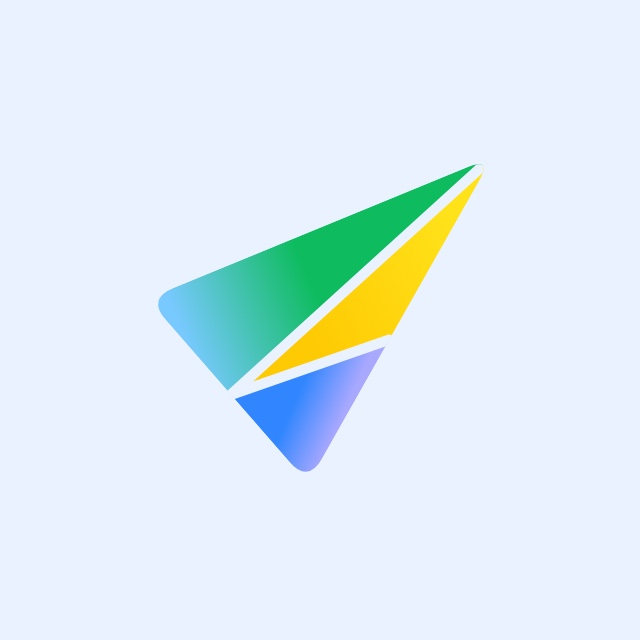
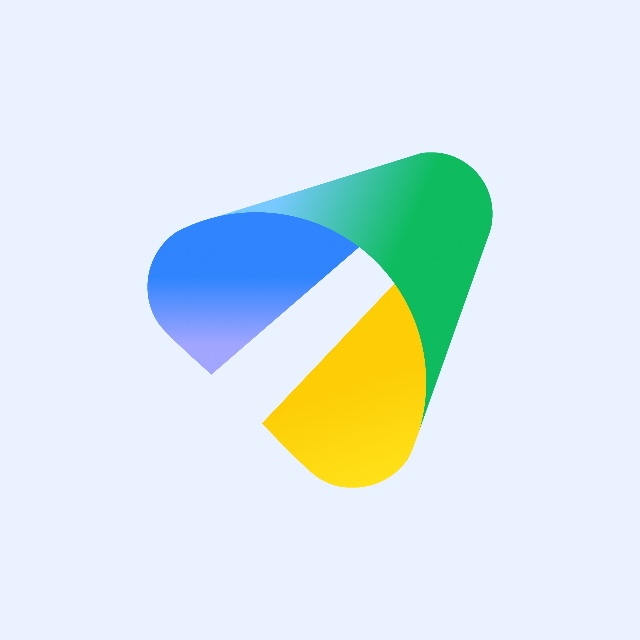
feat(brand): the app shows the new mark too
The mark in the app, on Home, the welcome and lock screens and while it
starts, is now the new artwork, as the launcher icon already was, and
so are the notification icon and the photo a new drive channel gets.
Every picture of the mark is rendered from tool/icon/source/telegrive.png,
so the hand-drawn plane and its painter are gone.

- BrandMark shows assets/brand/mark.png, the mark filling its square
- tool/icon renders mark.png, the white notification silhouette and
  the channel photo from the source image; install.sh puts them in place
- DESIGN.md describes the new mark and where its pictures come from

Changed region(s): [[0.2188, 0.2188, 0.7812, 0.7812]]

diff --git a/tool/icon/icon_test.dart b/tool/icon/icon_test.dart
@@ -1,11 +1,12 @@
-// Renders the launcher icons from the mark in source/telegrive.png, and the
-// notification icon and the channel photo from the same drawing as
-// BrandMark:
+// Renders every picture of the mark from source/telegrive.png: the app's
+// own copy of it, the launcher icons, the notification icon and the channel
+// photo:
 //
 //   flutter test tool/icon/icon_test.dart --update-goldens
 //   dart run flutter_launcher_icons
 //   tool/icon/install.sh
 //
+// mark.png is the mark alone, filling its square, for BrandMark in the app.
 // icon.png is the full-bleed square (iOS, legacy Android); foreground.png is
 // the plane alone for Android's adaptive icon, and doubles as the themed
 // (monochrome) icon.
@@ -15,15 +16,14 @@ import 'dart:ui' as ui;
 
 import 'package:flutter/material.dart';
 import 'package:flutter_test/flutter_test.dart';
-import 'package:telegrive/core/widgets/brand_mark.dart';
 
 const _size = 1024.0;
 
 /// White, so the blue of the plane reads as Telegram's.
 const _tile = Colors.white;
 
-/// The share of the icon the mark spans, across its longer side.
-const _markScale = 0.64;
+/// The share of a launcher icon the mark spans, across its longer side.
+const _iconScale = 0.64;
 
 void main() {
   Future<void> render(
@@ -74,68 +74,95 @@ void main() {
     );
   }
 
-  Future<void> renderMark(WidgetTester tester, String name, {Color? tile}) async {
+  Future<void> renderMark(
+    WidgetTester tester,
+    String name, {
+    required double scale,
+    Color? tile,
+    Color? silhouette,
+    double size = _size,
+  }) async {
     final (image, box) = await loadMark(tester);
-    await render(tester, _MarkPainter(image, box, tile: tile), name);
+    await render(
+      tester,
+      _MarkPainter(image, box, scale: scale, tile: tile, silhouette: silhouette),
+      name,
+      size: size,
+    );
   }
 
+  testWidgets('mark', (tester) async {
+    await renderMark(tester, 'mark', scale: 1, size: 512);
+  });
+
   testWidgets('full icon', (tester) async {
-    await renderMark(tester, 'icon', tile: _tile);
+    await renderMark(tester, 'icon', scale: _iconScale, tile: _tile);
   });
 
   testWidgets('adaptive foreground', (tester) async {
     // flutter_launcher_icons insets the foreground by 16% on each side,
     // which is already Android's visible area, so the mark is drawn at the
     // same size as on the full icon, inside the 66 dp safe circle.
-    await renderMark(tester, 'foreground');
+    await renderMark(tester, 'foreground', scale: _iconScale);
   });
 
   testWidgets('adaptive background', (tester) async {
-    await render(
-      tester,
-      const BrandPainter(scale: 0, tile: _tile),
-      'background',
-    );
+    await render(tester, const _Tile(_tile), 'background');
   });
 
   testWidgets('notification icon', (tester) async {
-    // Status-bar icons are white silhouettes; the creases stay open.
-    await render(
-      tester,
-      const BrandPainter(scale: 0.86, silhouette: Colors.white),
-      'notification',
-    );
+    // Status-bar icons are white silhouettes; the gaps between the facets
+    // stay open.
+    await renderMark(tester, 'notification', scale: 0.86, silhouette: Colors.white);
   });
 
   testWidgets('channel photo', (tester) async {
     // Telegram crops chat photos to a circle and shows them on white, so
-    // the plane sits well inside it on a faint blue.
-    await render(
+    // the mark sits well inside it on a faint blue.
+    await renderMark(
       tester,
-      const BrandPainter(scale: 0.54, tile: Color(0xFFEAF1FF)),
       'channel_photo',
+      scale: 0.54,
+      tile: const Color(0xFFEAF1FF),
       size: 640,
     );
   });
 }
 
+/// A square of one colour.
+class _Tile extends CustomPainter {
+  const _Tile(this.color);
+
+  final Color color;
+
+  @override
+  void paint(Canvas canvas, Size size) =>
+      canvas.drawRect(Offset.zero & size, Paint()..color = color);
+
+  @override
+  bool shouldRepaint(_Tile old) => old.color != color;
+}
+
 /// [image]'s mark, the part of it inside [box], centred on a square and
-/// scaled so its longer side spans [_markScale] of it, on [tile] when given.
+/// scaled so its longer side spans [scale] of it, on [tile] when given, and
+/// in one colour when [silhouette] is.
 class _MarkPainter extends CustomPainter {
-  const _MarkPainter(this.image, this.box, {this.tile});
+  const _MarkPainter(this.image, this.box, {required this.scale, this.tile, this.silhouette});
 
   final ui.Image image;
   final Rect box;
+  final double scale;
   final Color? tile;
+  final Color? silhouette;
 
   @override
   void paint(Canvas canvas, Size size) {
     if (tile != null) canvas.drawRect(Offset.zero & size, Paint()..color = tile!);
-    final scale = size.shortestSide * _markScale / box.longestSide;
+    final factor = size.shortestSide * scale / box.longestSide;
     final drawn = Rect.fromCenter(
       center: size.center(Offset.zero),
-      width: box.width * scale,
-      height: box.height * scale,
+      width: box.width * factor,
+      height: box.height * factor,
     );
     canvas.drawImageRect(
       image,
@@ -143,11 +170,18 @@ class _MarkPainter extends CustomPainter {
       drawn,
       Paint()
         ..filterQuality = FilterQuality.high
-        ..isAntiAlias = true,
+        ..isAntiAlias = true
+        ..colorFilter = silhouette == null
+            ? null
+            : ColorFilter.mode(silhouette!, BlendMode.srcIn),
     );
   }
 
   @override
   bool shouldRepaint(_MarkPainter old) =>
-      old.image != image || old.box != box || old.tile != tile;
+      old.image != image ||
+      old.box != box ||
+      old.scale != scale ||
+      old.tile != tile ||
+      old.silhouette != silhouette;
 }

diff --git a/lib/core/widgets/brand_mark.dart b/lib/core/widgets/brand_mark.dart
@@ -1,13 +1,10 @@
-import 'dart:math' as math;
-import 'dart:ui' as ui;
-
 import 'package:flutter/material.dart';
 
 import '../../app/theme/tokens.dart';
 
-/// The Telegrive mark: a paper plane, the way Telegram sends, folded from
-/// three facets into one rounded triangle. A green
-/// wing, a yellow body and a blue keel, with thin creases between them.
+/// The Telegrive mark: a paper plane folded into a drive, its facets in the
+/// app's blue and green and a yellow. The picture is rendered from
+/// tool/icon/source/telegrive.png, as every icon is.
 class BrandMark extends StatelessWidget {
   const BrandMark({super.key, this.size = 56});
 
@@ -15,130 +12,14 @@ class BrandMark extends StatelessWidget {
 
   @override
   Widget build(BuildContext context) {
-    return SizedBox.square(
-      dimension: size,
-      child: const CustomPaint(painter: BrandPainter()),
+    return Image.asset(
+      'assets/brand/mark.png',
+      width: size,
+      height: size,
+      filterQuality: FilterQuality.medium,
+      excludeFromSemantics: true,
     );
   }
-}
-
-/// Draws the mark into a square. The app draws it bare; tool/icon renders
-/// the launcher icons, the notification icon and the channel photo with it.
-class BrandPainter extends CustomPainter {
-  const BrandPainter({
-    this.scale = 0.92,
-    this.tile,
-    this.tileRadius = 0,
-    this.silhouette,
-  });
-
-  /// Share of the square the plane spans.
-  final double scale;
-
-  /// Background filling the square, if any.
-  final Color? tile;
-
-  /// Corner radius of [tile], as a share of the side.
-  final double tileRadius;
-
-  /// One colour for every facet (notification and themed icons).
-  final Color? silhouette;
-
-  static const Color green = Color(0xFF0EBC5F);
-  static const Color sky = Color(0xFF78C9FF);
-  static const Color yellow = Color(0xFFFECA03);
-  static const Color lightYellow = Color(0xFFFFE21A);
-  static const Color blue = Color(0xFF3186FF);
-  static const Color lavender = Color(0xFFA9A8FF);
-
-  static const Offset _nose = Offset(0.86, 0.17);
-  static const Offset _tail = Offset(0.13, 0.47);
-  static const Offset _keel = Offset(0.47, 0.86);
-  static const Rect _bounds = Rect.fromLTRB(0.13, 0.17, 0.86, 0.86);
-
-  @override
-  void paint(Canvas canvas, Size size) {
-    final side = size.shortestSide;
-    if (tile != null) {
-      canvas.drawRRect(
-        RRect.fromRectAndRadius(Offset.zero & size, Radius.circular(side * tileRadius)),
-        Paint()..color = tile!,
-      );
-    }
-    if (scale <= 0) return;
-
-    final unit = side * scale / _bounds.longestSide;
-    canvas
-      ..save()
-      ..translate(size.width / 2, size.height / 2)
-      ..scale(unit)
-      ..translate(-_bounds.center.dx, -_bounds.center.dy);
-
-    // The crease meets the back edge a little past halfway; the keel takes
-    // the lower part of the leading edge.
-    final fold = Offset.lerp(_tail, _keel, 0.52)!;
-    final keelTop = Offset.lerp(_nose, _keel, 0.56)!;
-
-    canvas
-      ..saveLayer(_bounds.inflate(0.1), Paint())
-      ..clipPath(_rounded([_nose, _tail, _keel], 0.06));
-    // Each facet shades the way light falls across a fold: the wing cools
-    // to sky at its tail, the body brightens outward, the keel fades to
-    // lavender at its tip.
-    final outer = Offset.lerp(_nose, keelTop, 0.5)! + const Offset(0.08, 0.05);
-    final facets = [
-      (
-        [_nose, _tail, fold],
-        ui.Gradient.linear(_tail, Offset.lerp(_tail, _nose, 0.42)!, [sky, green], [0.12, 1]),
-      ),
-      (
-        [_nose, fold, keelTop],
-        ui.Gradient.linear(fold, outer, [yellow, lightYellow], [0.35, 1]),
-      ),
-      (
-        [fold, _keel, keelTop],
-        ui.Gradient.linear(fold, Offset.lerp(_keel, keelTop, 0.3)!, [blue, lavender], [0.55, 1]),
-      ),
-    ];
-    for (final (points, shader) in facets) {
-      final paint = Paint();
-      silhouette == null ? paint.shader = shader : paint.color = silhouette!;
-      canvas.drawPath(Path()..addPolygon(points, true), paint);
-    }
-    // Creases cut through to whatever is behind, so the mark works on any
-    // background and as a one-colour silhouette.
-    final crease = Paint()
-      ..blendMode = BlendMode.clear
-      ..strokeWidth = math.max(0.022, 1 / unit)
-      ..strokeCap = StrokeCap.round;
-    canvas
-      ..drawLine(_nose, fold, crease)
-      ..drawLine(fold, keelTop, crease)
-      ..restore()
-      ..restore();
-  }
-
-  /// [points] with each corner cut [r] back along its edges and curved.
-  static Path _rounded(List<Offset> points, double r) {
-    final path = Path();
-    for (var i = 0; i < points.length; i++) {
-      final previous = points[(i - 1 + points.length) % points.length];
-      final corner = points[i];
-      final next = points[(i + 1) % points.length];
-      final from = corner + (previous - corner) / (previous - corner).distance * r;
-      final to = corner + (next - corner) / (next - corner).distance * r;
-      i == 0 ? path.moveTo(from.dx, from.dy) : path.lineTo(from.dx, from.dy);
-      path.quadraticBezierTo(corner.dx, corner.dy, to.dx, to.dy);
-    }
-    return path..close();
-  }
-
-  @override
-  bool shouldRepaint(BrandPainter old) =>
-      old.scale != scale ||
-      old.tile != tile ||
-      old.tileRadius != tileRadius ||
-      old.silhouette != silhouette;
 }
 
 /// Mark and name side by side.

diff --git a/DESIGN.md b/DESIGN.md
@@ -60,24 +60,26 @@ Letter spacing stays at the font's default. Body text is never below 13.
 
 ## Mark
 
-A paper plane, the way Telegram sends, folded from three facets into one
-rounded triangle. Thin open creases separate them.
+A paper plane folded into a drive: three rounded facets with open gaps
+between them.
 
 | Facet | Colour | Shading |
 | --- | --- | --- |
-| Wing (top) | `#0EBC5F` green | cools to `#78C9FF` sky at its tail |
-| Body (right) | `#FECA03` yellow | brightens to `#FFE21A` outward |
-| Keel (bottom) | `#3186FF` blue | fades to `#A9A8FF` lavender at its tip |
+| Wing (top) | `#0EBC5F` green | cools to `#7FD4FF` sky at its tail |
+| Body (right) | `#FDCD06` yellow | brightens outward |
+| Keel (left) | `#3085FE` blue | fades to `#7C9BFE` lavender at its tip |
 
 These colours and their shading belong to the mark alone; the UI keeps its
 one accent and no gradients.
 
-- Drawn once, by `BrandPainter` in `lib/core/widgets/brand_mark.dart`;
-  `tool/icon` renders every icon and the channel photo from it.
+- The artwork is `tool/icon/source/telegrive.png`. `tool/icon` renders
+  every picture of it from that file: the app's own copy for `BrandMark`
+  (`assets/brand/mark.png`), the launcher icons, the notification icon and
+  the channel photo.
 - In the app it stands bare, with no tile. The launcher icon puts it on
-  white; the channel photo uses
-  a faint blue so Telegram's circle has an edge.
-- As a one-colour silhouette (notification, themed icon) the creases stay
+  white; the channel photo uses a faint blue so Telegram's circle has an
+  edge.
+- As a one-colour silhouette (notification, themed icon) the gaps stay
   open.
 - Never recoloured, outlined, or set on a coloured tile.
 
